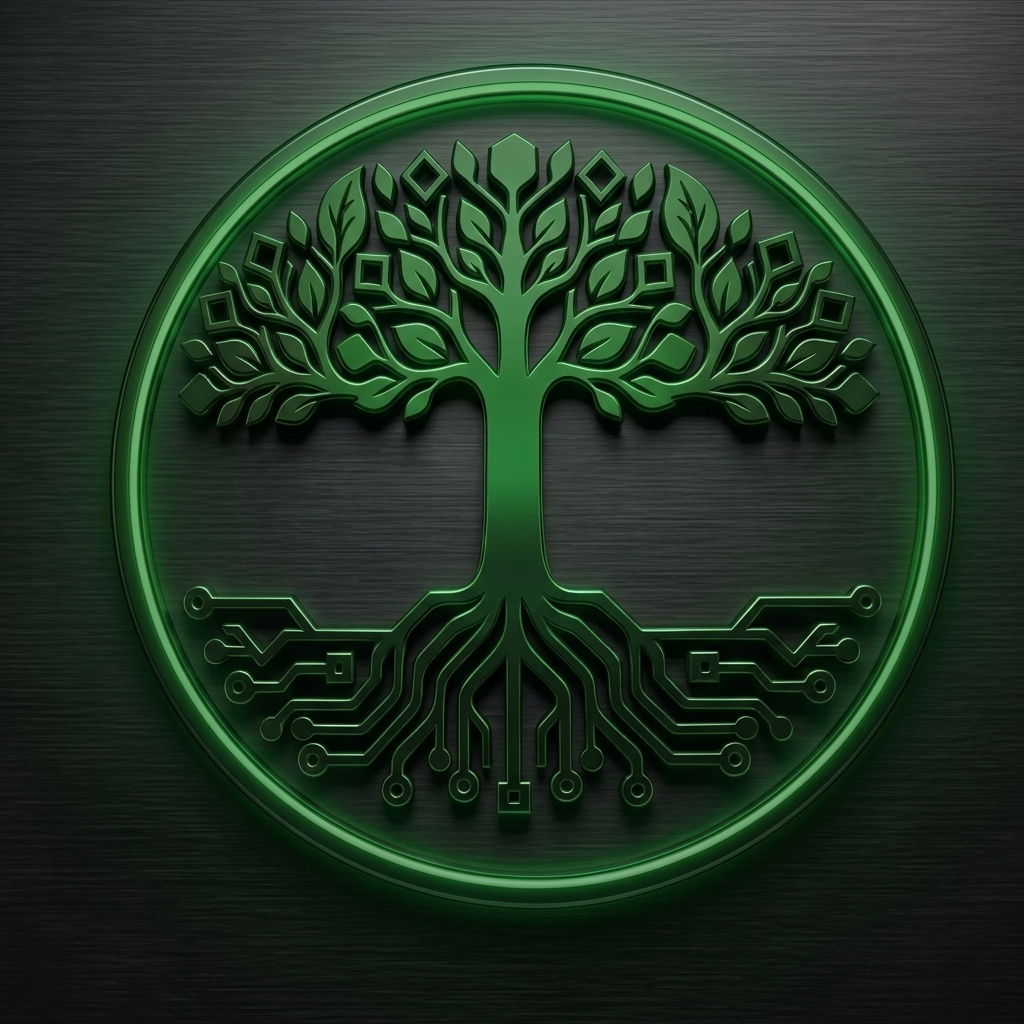
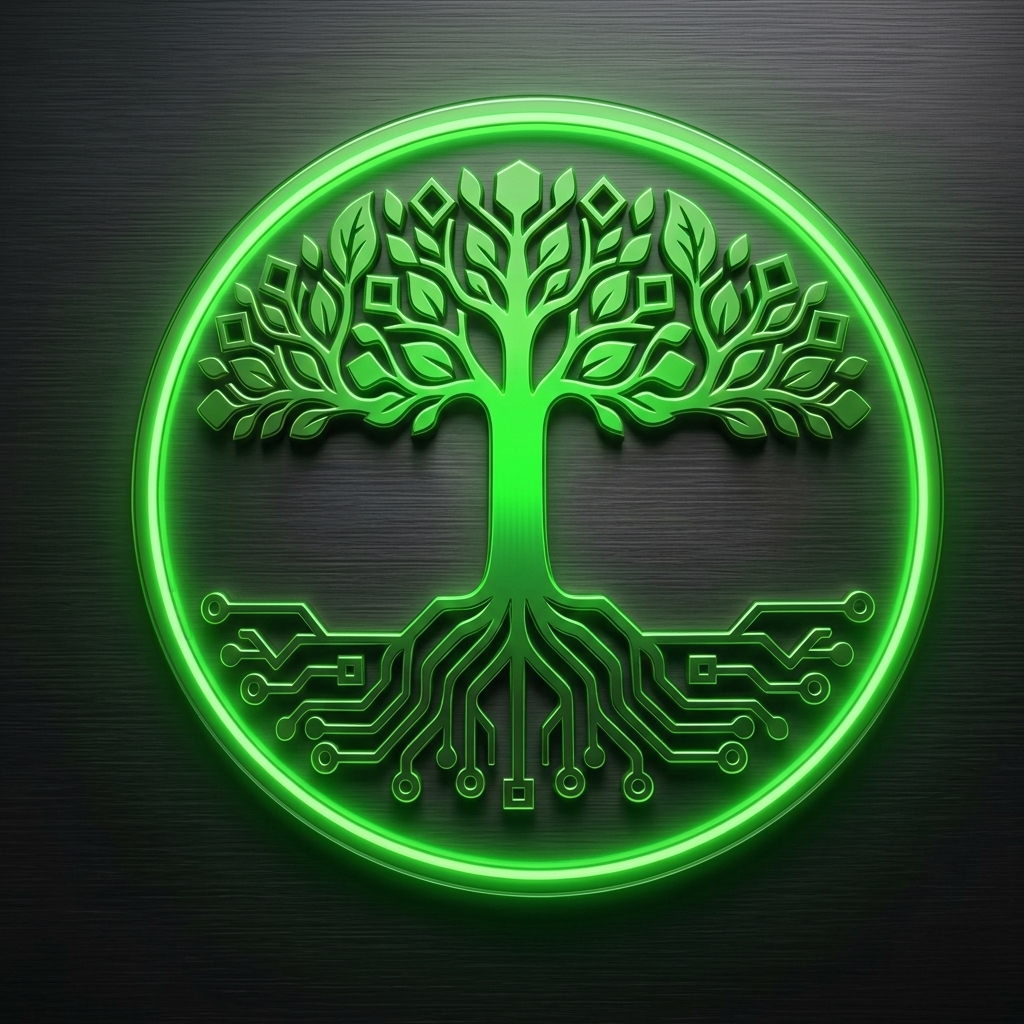
Enhance emblem with luminous emerald neon ring glow and update gateway header halo

diff --git a/server.js b/server.js
@@ -6815,32 +6815,33 @@ app.get(['/', '/portal', '/portals', '/gateway'], (req, res) => {
     }
     .logo-wrapper {
       position: relative;
-      width: 82px;
-      height: 82px;
+      width: 86px;
+      height: 86px;
       margin: 0 auto 16px;
       display: flex;
       align-items: center;
       justify-content: center;
     }
     .logo-img {
-      width: 82px;
-      height: 82px;
+      width: 86px;
+      height: 86px;
       border-radius: 50%;
       object-fit: cover;
-      border: 2px solid rgba(74, 222, 128, 0.6);
-      box-shadow: 0 8px 24px rgba(0, 0, 0, 0.35), 0 0 20px rgba(45, 212, 191, 0.3);
+      border: 2px solid #4ADE80;
+      box-shadow: 0 8px 24px rgba(0, 0, 0, 0.4), 0 0 24px rgba(74, 222, 128, 0.55);
       transition: transform 0.3s ease, box-shadow 0.3s ease;
     }
     .logo-wrapper:hover .logo-img {
-      transform: scale(1.05);
-      box-shadow: 0 12px 30px rgba(0, 0, 0, 0.45), 0 0 28px rgba(74, 222, 128, 0.6);
+      transform: scale(1.06);
+      box-shadow: 0 12px 32px rgba(0, 0, 0, 0.5), 0 0 35px rgba(74, 222, 128, 0.85);
     }
     .logo-wrapper::after {
       content: '';
       position: absolute;
       inset: -5px;
       border-radius: 50%;
-      border: 1.5px solid rgba(74, 222, 128, 0.3);
+      border: 1.5px solid rgba(74, 222, 128, 0.4);
+      box-shadow: 0 0 18px rgba(74, 222, 128, 0.25);
       pointer-events: none;
     }
     h1 {
